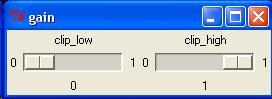
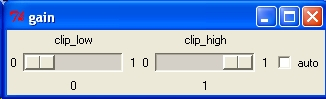
2004-11-12  Russell M. Taylor II  <taylorr@cs.unc.edu>
* base_camera_server.cpp : Added virtual destructors to
		remove memory leak.
	* base_camera_server.h : Same.
	* cismm_video_optimizer.cpp : Shifts the image intensities
		for 8-bit file saves so that they match what is shown
		on the screen.
	* cismm_video_optimizer.tcl : Moved the initial location of
		the imagemix control panel.

diff --git a/cismm_video_optimizer/cismm_video_optimizer.html b/cismm_video_optimizer/cismm_video_optimizer.html
@@ -1,6 +1,6 @@
-<title>CISMM Video Optimizer v01.05</title>
+<title>CISMM Video Optimizer v01.06</title>
 
-<h1>CISMM Video Optimizer v01.05</h1>
+<h1>CISMM Video Optimizer v01.06</h1>
 
 <p>The <dfn>CISMM Video Optimizer</dfn> program is used to optimize video frames from a <a href="http://www.microsoft.com/directx">Microsoft DirectShow</a>-compatible video file, from a <a href="http://www.microsoft.com/directx">Microsoft DirectShow</a>-compatible camera, from a <a href="http://roperscientific.com">Roper Scientific</a> camera, from a <a href="http://diaginc.com">DiagInc</a> SPOT camera, or from a set of TIFF or BMP files (it can read other, compressed file formats but these are not included in the default set because these file formats distort images in ways that affect tracking accuracy). The program currently runs only on Windows, but it uses the portable openGL library for rendering, the portable Tcl/Tk for user interface control, and the portable ImageMagick package for reading images.</p>
 
@@ -10,9 +10,9 @@
 
 <h2>Running the program</h2>
 
-<p>The program is run by dragging a video file or image file onto the desktop icon that was created when the program was installed. To select a stack of image files that are numbered consecutively, drag any one of the files onto the icon.  It can also be run by selecting one of the camera-specific shortcuts from <i><b>Start Menu/All Programs/NSRG/CISMM Video Optimizer v01.05</b></i>. If you run the program directly by double-clicking on the icon, it will ask for a video or image file (AVI, TIF, or BMP) that it should open.</p> 
+<p>The program is run by dragging a video file or image file onto the desktop icon that was created when the program was installed. To select a stack of image files that are numbered consecutively, drag any one of the files onto the icon.  It can also be run by selecting one of the camera-specific shortcuts from <i><b>Start Menu/All Programs/NSRG/CISMM Video Optimizer v01.06</b></i>. If you run the program directly by double-clicking on the icon, it will ask for a video or image file (AVI, TIF, or BMP) that it should open.</p> 
 
-<h2><img src="GUI.jpg" width="173" height="595" align="right">Using the program</h2>
+<h2><img src="GUI.jpg" width="173" height="741" align="right">Using the program</h2>
 
 <p>When the program is run and a file is selected, four windows will appear. The image window that appears on the lower right contains the first image within the video file or a continually-updating image from a live camera feed. The control panel named <b><i>tk</i></b> that appears on the left when the program is run (shown here to the right) contains a number of interaction widgets that control the operation of the program. The <b><i>kernel</i></b> control panel that appears above the image window (described later) controls the type of tracking kernel being used. The <b><i>log</i></b> control panel is described later.</p> 
 
@@ -41,12 +41,13 @@
   though it exceeds the maximum slider value, it can be set in this manner. To 
   repeat, <b><i>this setting has no effect on tracking, only on the images shown 
   on the screen</i></b>. It also has no effect on the high-value cropping within 
-  the stored file: the screen only shows 8 bits, but if an image is saved as 16 
-  bits then the data values above the high-crop line (see below) and the maximum 
-  stored value will be maintained in the stored file.</p>
+  16-bit stored files: the screen only shows 8 bits, but if an image is saved 
+  as 16 bits then the data values above the high-crop line (see below) and the 
+  maximum stored value will be maintained in the stored file. It does affect the 
+  brightness in 8-bit stored files.</p>
 
 <h3>Adjusting contrast and brightness</h3>
-<p><img src="gain_controls.jpg" width="272" height="99" align="right">The brightness 
+<p><img src="gain_controls.jpg" width="326" height="99" align="right">The brightness 
   and contrast of the image can be adjusted using the gain control panel, which 
   is displayed when the <i>show_gain_control</i> box is checked; this box is off 
   by default. The control panel is shown to the right. The two sliders are used 
@@ -62,8 +63,15 @@
   occur because there are more representable values in the file than can be shown 
   on the screen; in this case, the stretching will still occur but the high values 
   will still be present in the output file.</p>
+<p>The <i>auto</i> check-box will cause the program to adjust the clipping values 
+  to bracket the actual intensity values found in the section of the file that 
+  is to be stored. This will automatically make the intensity span the available 
+  range for display, mapping all available colors to the display.</p>
 <p>The red, green, and blue channels of the input image are scaled using the same 
   settings.</p>
+<p><b>Note: </b> Adjusting the clipping values will produce variable gains in 
+  the intensity in the output file, relative to the actual intensities present 
+  in the input file. It should not be used if quantitative pixel values are required.</p>
 <h3>Cropping the video</h3>
 
 <p><img src="crop.jpg" width="168" height="154" align="right">To reduce the size of the resulting image stack, it is possible the select only a sub-region of the video that is to be saved, cropping the video to the selected region. The region can be selected in one of two ways. The first is to press and hold the right mouse button at the center of the desired region and then drag the mouse to set one corner of the region. The second is to select the <cite>show_clipping</cite> checkbox in the <cite>tk</cite> control panel. This will bring up a new control window that lets you slide the four sides of the selection region within the image.</p>
@@ -72,7 +80,20 @@
 
 <p>Remember that objects will move as the video goes, so be careful to preview your video and make sure everything stays in the cropped region for the segment of video you are optimizing, with room to spare for any border around objects that you need.</p>
 
-<h3>Selecting the type of transformation</h3>
+<h3>Performing image operations</h3>
+<p><img src="imagemix_controls.jpg" width="377" height="169" align="right">When 
+  the <i>show_imagemix_control</i> check-box is checked, the <i>imagemix</i> control 
+  panel appears. This enables the calculation of min, max, and mean images, which 
+  are per-pixel operations on all images seen while the <i>accumulate</i> check-boxes 
+  are turned on. A set of radio buttons on the left displays these statistical 
+  images, and by default shows the computed image.</p>
+<p>The computed image can either be the standard image as described above (when 
+  <i>subract_none</i> is) chosen in the central radio list or an image computed 
+  by subtracting one of the min, max, or mean images. It is also possible to subtract 
+  a single image from later images; when <i>subtract_single</i> is checked, the 
+  image will go grey (subtracted from itself) and later images will show the difference 
+  between the original image and the current image.</p>
+<h3>Spatially transforming the image</h3>
 
 <p>By default, the CISMM Video Optimizer only applies a translation to successive frames in the image and only provides one fiducial mark, which follows a point on the images that is to remain fixed in the output video.</p>
 
@@ -90,7 +111,7 @@
 
 <p><img src="kernel.jpg" width="528" height="117"></p>
 
-<p>There are three types of tracking kernels available in version 1.05, disc, cone, and symmetric. Their properties are controlled using interface widgets in the <cite>kernel</cite> control panel.</p> 
+<p>There are three types of tracking kernels available in version 1.06, disc, cone, and symmetric. Their properties are controlled using interface widgets in the <cite>kernel</cite> control panel.</p> 
 
 <p>For tracking spots that are even in intensity, or which have uneven intensities within them but a defined circular edge, the <cite><strong>disc</strong></cite> kernel should be used. The radius should be set to match the radius of the spots you wish to track. The <cite><strong>interpolate</strong></cite> checkbox should be set for more accuracy and cleared for more speed.</p> 
 
@@ -159,6 +180,14 @@
 
 <h2>Version Information</h2>
 
+<h3>Version 01.06</h3>
+<ul>
+  <li>Adds ability to do auto gain control.</li>
+  <li>Adds ability to compute min, max, and mean images.</li>
+  <li>Adds ability to subtract a single image or one of the (min, max, mean) images 
+    from the displayed image.</li>
+</ul>
+<h3></h3>
 <h3>Version 01.05</h3>
 <ul>
   <li>Adds spread-function saving option.</li>

diff --git a/cismm_video_optimizer.cpp b/cismm_video_optimizer.cpp
@@ -60,7 +60,7 @@ const double M_PI = 2*asin(1.0);
 
 //--------------------------------------------------------------------------
 // Version string for this program
-const char *Version_string = "01.05";
+const char *Version_string = "01.06";
 
 //--------------------------------------------------------------------------
 // Global constants
@@ -443,14 +443,19 @@ static	bool  save_log_frame(unsigned frame_number)
     }
 
     // Figure out whether the image will be sixteen bits, and also
-    // the gain to apply (256 if 8-bit, 1 if 16-bit).
+    // the gain to apply (256 if 8-bit, 1 if 16-bit).  If it is 8-bit
+    // output, also apply a shift related to the global bit-shift,
+    // so that what ends up in the file is the same as what ends up
+    // on the screen.
     bool do_sixteen = (g_sixteenbits == 1);
     int bitshift_gain = 1;
-    if (!do_sixteen) { bitshift_gain = 256; }
+    if (!do_sixteen) {
+      bitshift_gain = 256;
+      bitshift_gain /= pow(2,g_bitdepth - 8);
+    }
 
     // Crop the region we want out of the image and then write it
-    // to a file.  Set the gain based on whether we're using 16 bits
-    // and the offset and scale (gain again) based on the global
+    // to a file.  Set the offset and scale (gain again) based on the global
     // clipping values.
     vrpn_uint16 clamp = (1 << ((unsigned)(g_bitdepth))) - 1;
     double  intensity_gain;

diff --git a/base_camera_server.h b/base_camera_server.h
@@ -17,6 +17,10 @@
 
 class image_wrapper {
 public:
+
+  // Virtual destructor to let children de-allocate space as needed.
+  virtual ~image_wrapper() {};
+
   // Tell what the range is for the image.
   virtual void	read_range(int &minx, int &maxx, int &miny, int &maxy) const = 0;
 
@@ -436,7 +440,6 @@ protected:
 class minimum_image: public image_metric {
 public:
   minimum_image(const image_wrapper &copyfrom) : image_metric(copyfrom) {};
-  ~minimum_image();
 
   // Take the minimum of the existing image and this new image
   virtual void operator+= (const image_wrapper &newimage);
@@ -449,7 +452,6 @@ public:
 class maximum_image: public image_metric {
 public:
   maximum_image(const image_wrapper &copyfrom) : image_metric(copyfrom) {};
-  ~maximum_image();
 
   // Take the maximum of the existing image and this new image
   virtual void operator+= (const image_wrapper &newimage);
@@ -462,7 +464,6 @@ public:
 class mean_image: public image_metric {
 public:
   mean_image(const image_wrapper &copyfrom) : image_metric(copyfrom), d_num_images(1) {};
-  ~mean_image();
 
   // Take the mean of the existing image and this new image
   virtual void operator+= (const image_wrapper &newimage);

diff --git a/base_camera_server.cpp b/base_camera_server.cpp
@@ -144,6 +144,7 @@ copy_of_image::~copy_of_image()
   if (_image) {
     delete [] _image;
   }
+  image_wrapper::~image_wrapper();
 }
 
 bool  copy_of_image::read_pixel(int x, int y, double &result, unsigned rgb) const
@@ -208,6 +209,7 @@ subtracted_image::~subtracted_image()
   if (_image) {
     delete [] _image;
   }
+  image_wrapper::~image_wrapper();
 }
 
 bool  subtracted_image::read_pixel(int x, int y, double &result, unsigned rgb) const
@@ -265,6 +267,7 @@ image_metric::~image_metric()
   if (_image) {
     delete [] _image;
   }
+  image_wrapper::~image_wrapper();
 }
 
 bool  image_metric::read_pixel(int x, int y, double &result, unsigned rgb) const
@@ -399,6 +402,7 @@ PSF_File::~PSF_File()
     d_lines[i] = NULL;
   }
   d_lines.clear();
+  image_wrapper::~image_wrapper();
 }
 
 bool  PSF_File::append_line(const image_wrapper &image, const double x, const double y)
